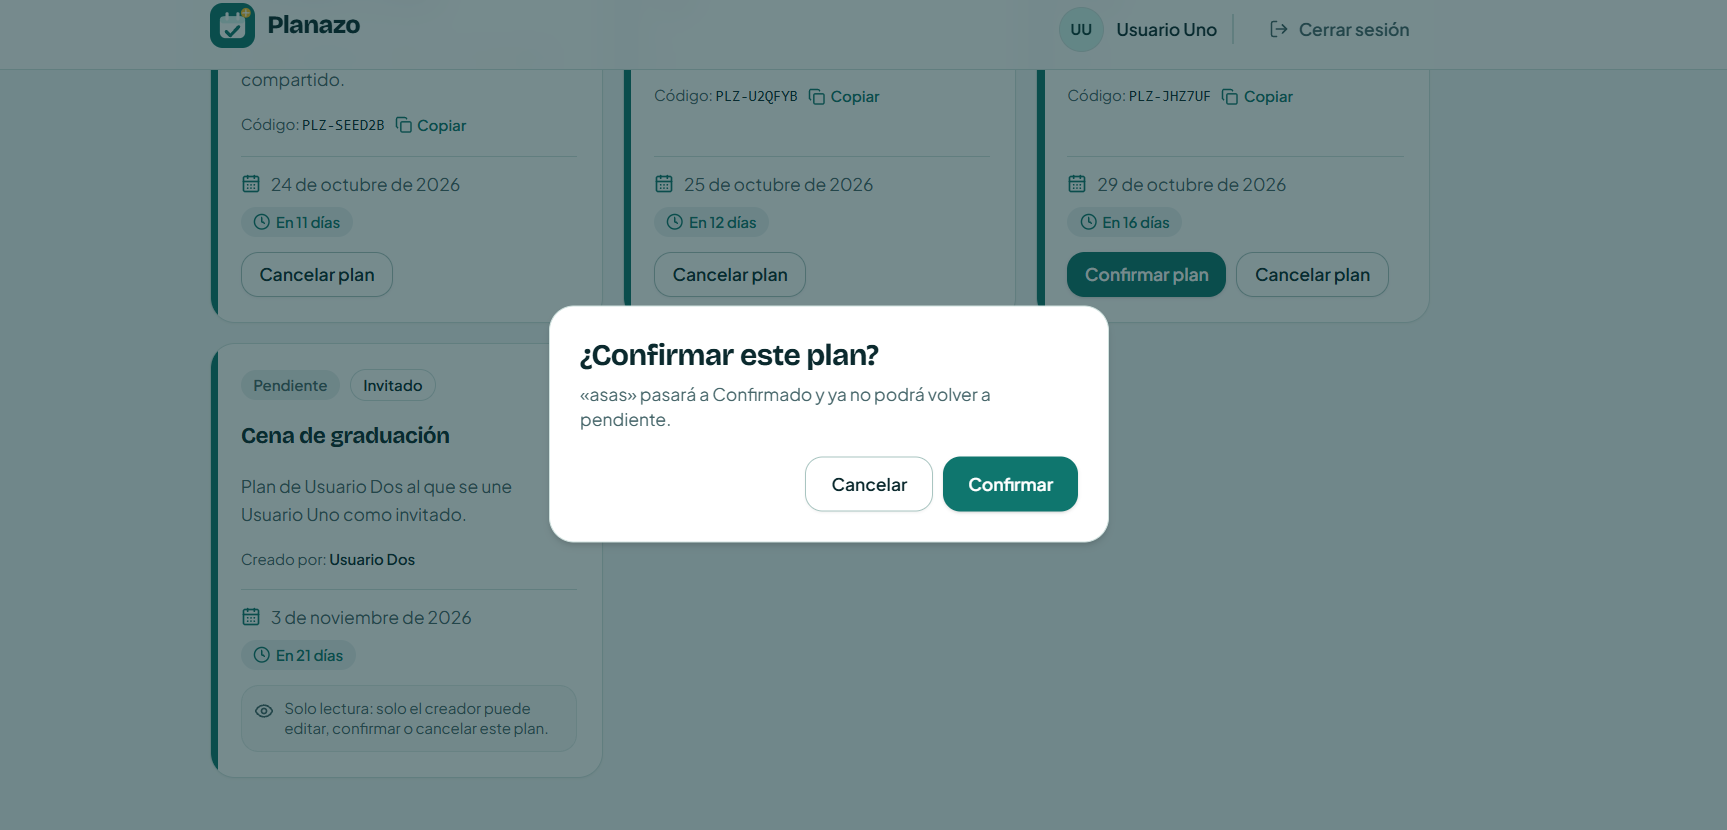
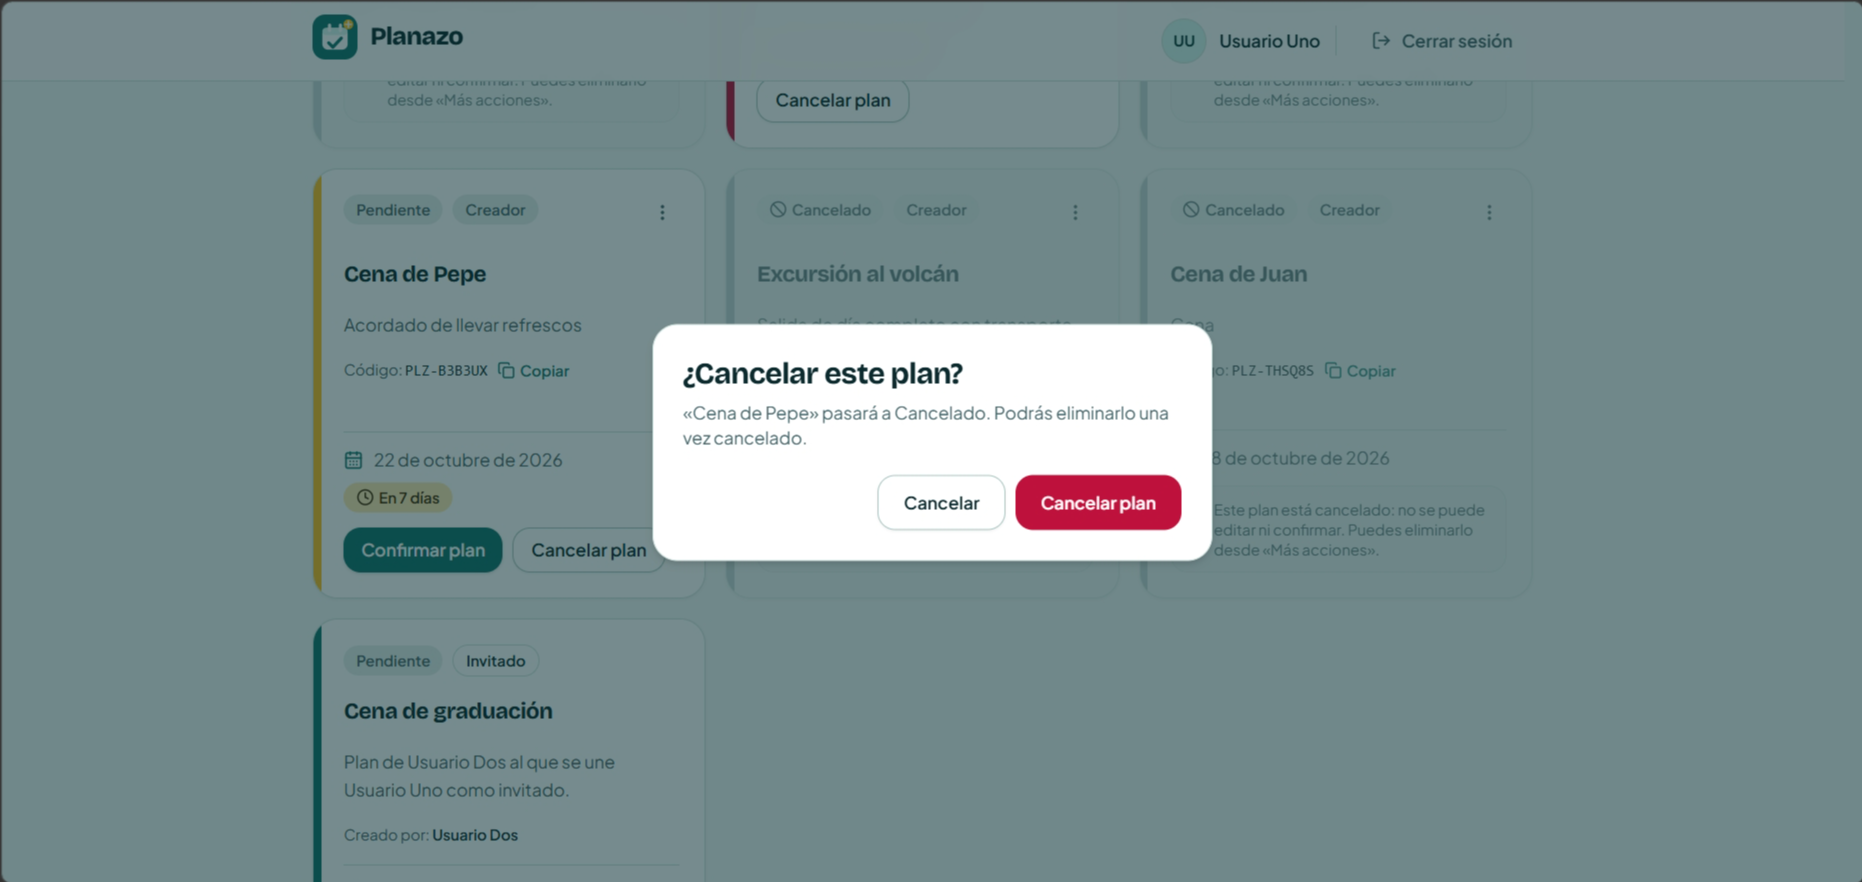
fix: ensure visible contextual feedback on plan cancellation (Closes #17, Refs #16)
Anchor the success notice to the viewport as a floating toast, add a unit test for the cancel flow, document H1 as corrected with before/after evidence, and sync and archive the plan-cancellation-visible-feedback change.

diff --git a/apps/frontend/src/pages/MyPlansPage.test.tsx b/apps/frontend/src/pages/MyPlansPage.test.tsx
@@ -30,6 +30,7 @@ const noSummary = { total: 0, overdue: 0, nextDueDate: null };
 const oneSummary = { total: 1, overdue: 0, nextDueDate: null };
 const listPlans = vi.mocked(api.listPlans);
 const createPlan = vi.mocked(api.createPlan);
+const cancelPlan = vi.mocked(api.cancelPlan);
 
 const saved: Plan = {
   id: "3f2a9c1e-7b4d-4e8a-9c21-5d6e7f8a9b0c",
@@ -491,4 +492,27 @@ describe("MyPlansPage", () => {
     await userEvent.click(screen.getByRole("button", { name: "Reintentar" }));
     await waitFor(() => expect(screen.queryByRole("alert")).not.toBeInTheDocument());
   });
+
+  it("renders floating viewport-anchored success toast after cancelling a plan", async () => {
+    listPlans.mockResolvedValue({ plans: [saved], summary: oneSummary });
+    cancelPlan.mockResolvedValue({ plan: { ...saved, estado: "cancelado" } });
+    renderPage();
+
+    await screen.findByRole("article");
+    await userEvent.click(screen.getByRole("button", { name: "Cancelar plan" }));
+
+    const dialog = screen.getByRole("alertdialog");
+    expect(dialog).toBeInTheDocument();
+    await userEvent.click(within(dialog).getByRole("button", { name: "Cancelar plan" }));
+
+    await waitFor(() => expect(cancelPlan).toHaveBeenCalledWith(saved.id));
+
+    const noticeText = await screen.findByText("Plan cancelado correctamente.");
+    expect(noticeText).toBeInTheDocument();
+
+    const toastContainer = noticeText.closest("div.fixed");
+    expect(toastContainer).not.toBeNull();
+    expect(toastContainer).toHaveClass("fixed", "bottom-5", "right-5", "z-50");
+  });
 });
+

diff --git a/apps/frontend/src/pages/MyPlansPage.tsx b/apps/frontend/src/pages/MyPlansPage.tsx
@@ -173,7 +173,9 @@ export default function MyPlansPage() {
       </header>
 
       {notice ? (
-        <SuccessNotice onClose={() => setNotice(null)}>{notice}</SuccessNotice>
+        <div className="fixed bottom-5 right-5 z-50 max-w-[calc(100vw-2.5rem)] sm:max-w-md shadow-lg animate-in fade-in slide-in-from-bottom-2 duration-200">
+          <SuccessNotice onClose={() => setNotice(null)}>{notice}</SuccessNotice>
+        </div>
       ) : null}
       <ErrorAlert message={loadError || actionError} />
       {loadError ? (

diff --git a/apps/frontend/src/components/domain/Notices.tsx b/apps/frontend/src/components/domain/Notices.tsx
@@ -37,7 +37,7 @@ export function SuccessNotice({
   if (!visible) return null;
 
   return (
-    <Alert role="status" variant="success" className="pr-10">
+    <Alert role="status" variant="success" className="pr-10 bg-card shadow-lg">
       <CircleCheck aria-hidden="true" />
       <div className="min-w-0">{children}</div>
       <button

diff --git a/docs/evaluacion-heuristica.md b/docs/evaluacion-heuristica.md
@@ -13,7 +13,7 @@ Este documento registra la evaluación de usabilidad centrada en la funcionalida
 
 | Observación | Heurística | Severidad (0-4) | Mejora | Comprobación |
 | :--- | :--- | :--- | :--- | :--- |
-| **Al cancelar no aparece confirmación cerca de la acción:** Tras scrollear en la lista para encontrar el plan y confirmarlo en el modal, el aviso de éxito se renderiza al tope de la página (`MyPlansPage.tsx`), fuera del viewport. | **H1: Visibilidad del estado del sistema** ❌ *(Falla · Sub-issue #17)* | **3 — Mayor** | Mostrar notificación flotante contextual (toast accesible sin librerías externas) anclada al viewport que confirme el estado «Cancelado». | Otra persona filtra por pendientes, scrollea, cancela un plan y explica qué ocurrió sin recibir ayuda externa. |
+| **Al cancelar no aparece confirmación cerca de la acción:** Tras scrollear en la lista para encontrar el plan y confirmarlo en el modal, el aviso de éxito se renderizaba fuera del viewport. Corregido con toast contextual flotante anclado en pantalla. | **H1: Visibilidad del estado del sistema** 🟢 *(Corregida · Sub-issue #17)* | **0 — Corregida (antes 3)** | Notificación flotante accesible (`fixed bottom-5 right-5 z-50 shadow-lg`) anclada en viewport que confirma el estado «Cancelado» en cualquier posición de scroll. | Verificado con tests unitarios en `MyPlansPage.test.tsx` y captura de pantalla `H1-despues.png` con la lista scrolleada. |
 | **Traducción adecuada a lenguaje cotidiano:** Las fechas de los planes a encontrar se expresan en lenguaje relativo coloquial (*"Vence en 3 días"*, *"Vence hoy"*), y las acciones usan términos comunes (*"Cancelar plan"*, *"Pasará a Cancelado"*). | **H2: Concordancia con el mundo real** ✅ *(Cumple en código)* | **0 — Sin problema** | Mantener vocabulario claro de reuniones y plazos sin requerir interpretación de marcas de tiempo ISO ni códigos de backend. | Un usuario lee la tarjeta encontrada y comprende de inmediato cuándo vence y en qué estado está sin consultar calendarios externos. |
 | **Callejón sin salida para el invitado:** Si un usuario invitado busca y encuentra un plan al que se unió pero al que ya no puede asistir, la tarjeta solo muestra un cartel de solo lectura sin opción de salida. | **H3: Control y libertad del usuario** ❌ *(Falla · Sub-issue #18)* | **3 — Mayor** | Habilitar la opción «Abandonar plan» en el menú (⋮) con diálogo de confirmación para que el invitado pueda retirarse de la reunión. | Un usuario con rol invitado busca su plan, abre el menú de la tarjeta y puede retirarse de forma autónoma. |
 | **Uniformidad visual y funcional en botones y modales:** El botón «Cancelar plan» usa siempre la variante secundaria (`outline`) según DESIGN.md para no competir con el primario, y el menú (⋮) se ubica arriba a la derecha. | **H4: Consistencia y estándares** ✅ *(Cumple en código)* | **0 — Sin problema** | Respetar las variantes del sistema de diseño (`tokens.css`, `Button.tsx`, `ConfirmDialog.tsx`) de forma idéntica en todas las tarjetas de la lista. | El usuario escanea la grilla de planes encontrados e identifica de inmediato qué botón cancela y cuál confirma sin dudar. |
@@ -40,18 +40,23 @@ Este documento registra la evaluación de usabilidad centrada en la funcionalida
 
 ### H1: Visibilidad del estado del sistema
 
-* **Estado:** ❌ **Falla (A resolver en Sub-issue #17)**
-* **Severidad:** **3 — Mayor**
+* **Estado:** 🟢 **Corregida (Resuelto en Sub-issue #17)**
+* **Severidad:** **0 — Corregida (original: 3 — Mayor)**
 * **Pantalla y flujo:** Catálogo de planes en `/mis-planes`. Paso: el usuario busca un plan en la lista, hace scroll hacia abajo, pulsa «Cancelar plan» y confirma en el diálogo modal.
-* **Problema en código actual (Antes):** En [MyPlansPage.tsx:L175-L177](file:///d:/Proyectos/Proyectos-Moises/Proyecto-2-IHC/apps/frontend/src/pages/MyPlansPage.tsx#L175-L177), el componente `SuccessNotice` está insertado estáticamente arriba en el layout. Al confirmar la cancelación con scroll, el modal se cierra pero el mensaje queda oculto arriba fuera del viewport.
-* **Solución propuesta (Después):** Modificar el contenedor de `SuccessNotice` en `MyPlansPage.tsx` para que se posicione de forma flotante en pantalla (`fixed bottom-5 right-5 z-50 shadow-md`) mediante clases nativas de Tailwind, sin librerías externas.
-* **Referencia al código:** [MyPlansPage.tsx:L175-L177](file:///d:/Proyectos/Proyectos-Moises/Proyecto-2-IHC/apps/frontend/src/pages/MyPlansPage.tsx#L175-L177) y [Notices.tsx](file:///d:/Proyectos/Proyectos-Moises/Proyecto-2-IHC/apps/frontend/src/components/domain/Notices.tsx).
+* **Problema en código previo (Antes):** En [MyPlansPage.tsx](file:///d:/Proyectos/Proyectos-Moises/Proyecto-2-IHC/apps/frontend/src/pages/MyPlansPage.tsx), el componente `SuccessNotice` estaba insertado estáticamente arriba en el layout. Al confirmar la cancelación con scroll, el modal se cerraba pero el mensaje quedaba oculto arriba fuera del viewport.
+* **Solución implementada (Después):** Se encapsuló `SuccessNotice` en [MyPlansPage.tsx:L175-L179](file:///d:/Proyectos/Proyectos-Moises/Proyecto-2-IHC/apps/frontend/src/pages/MyPlansPage.tsx#L175-L179) dentro de un contenedor flotante anclado al viewport (`fixed bottom-5 right-5 z-50 max-w-[calc(100vw-2.5rem)] sm:max-w-md shadow-lg animate-in fade-in slide-in-from-bottom-2 duration-200`) y se aseguró el fondo opaco `bg-card` en [Notices.tsx:L40](file:///d:/Proyectos/Proyectos-Moises/Proyecto-2-IHC/apps/frontend/src/components/domain/Notices.tsx#L40), garantizando visibilidad inmediata e inequívoca tras la cancelación sin importar la posición de scroll.
+* **Referencia al código:** [MyPlansPage.tsx:L175-L179](file:///d:/Proyectos/Proyectos-Moises/Proyecto-2-IHC/apps/frontend/src/pages/MyPlansPage.tsx#L175-L179) y [Notices.tsx:L40](file:///d:/Proyectos/Proyectos-Moises/Proyecto-2-IHC/apps/frontend/src/components/domain/Notices.tsx#L40).
 * **Evidencias gráficas:**
-  * *Antes (Aviso al tope de la página fuera del viewport con scroll):*  
-    ![H1 Antes Paso 1](evidencias/H1-P1.png)  
-    ![H1 Antes Paso 2](evidencias/H1-P2.png)
-  * *Después (Notificación toast en viewport tras el fix):*  
-    `docs/evidencias/H1-despues.png` *(se captura al aplicar el fix del sub-issue #17)*
+  * *Antes (Secuencia de falla: falta de feedback contextual con scroll):*  
+    * **Paso 1 (Modal de cancelación tras scroll):**  
+      ![H1 Paso 1 - Modal de cancelación tras scroll](evidencias/H1-P1.png)  
+    * **Paso 2 (Ausencia de feedback en viewport tras confirmar):**  
+      ![H1 Paso 2 - Vista sin anuncio visible tras confirmar](evidencias/H1-P2.png)  
+    * **Paso 3 (Scroll forzado hasta el tope para ver el mensaje):**  
+      ![H1 Paso 3 - Scroll forzado hasta arriba para ver el aviso](evidencias/H1-P3.png)
+  * *Después (Notificación toast flotante en viewport tras el fix):*  
+    * **Confirmación flotante visible en viewport con scroll activo:**  
+      ![H1 Después - Notificación toast flotante en viewport](evidencias/H1-despues.png)
 
 ---
 

diff --git a/openspec/changes/archive/2026-10-15-plan-cancellation-visible-feedback/design.md b/openspec/changes/archive/2026-10-15-plan-cancellation-visible-feedback/design.md
@@ -1,0 +1,39 @@
+# Design: Feedback visible y contextual al cancelar planes (H1 / Sub-issue #17)
+
+## Context
+
+Actualmente en `MyPlansPage.tsx:L175-L177`, `SuccessNotice` se monta en el flujo estático del DOM, debajo de `<header>` y antes de las tarjetas de planes. Cuando el usuario tiene múltiples planes y se desplaza verticalmente para encontrar el plan deseado y cancelarlo, el modal se cierra y el aviso se renderiza en la parte superior del documento, quedando completamente fuera del viewport visible.
+
+## Goals / Non-Goals
+
+**Goals:**
+- Anclar la notificación de éxito al viewport visible mediante posicionamiento flotante (`fixed bottom-5 right-5 z-50 max-w-md shadow-lg`), asegurando visibilidad inmediata sin importar el scroll.
+- Mantener la accesibilidad (`role="status"`, botón de cierre con `aria-label`, auto-cierre tras 5 segundos).
+- Cero librerías externas adicionales, respetando estrictamente `AGENTS.md` y `DESIGN.md`.
+- Cobertura completa de pruebas unitarias en `MyPlansPage.test.tsx` verificando la presencia y contenido del feedback tras la cancelación.
+
+**Non-Goals:**
+- No implementar un gestor complejo de múltiples toasts ni instalar librerías como `sonner` o `react-hot-toast`.
+- No modificar el comportamiento de `ErrorAlert` (los errores mantienen su contexto actual).
+
+## Decisions
+
+### Decisión 1: Contenedor flotante en `MyPlansPage.tsx`
+- **Elección:** Envolver `SuccessNotice` en un contenedor fijo:
+  ```tsx
+  {notice ? (
+    <div className="fixed bottom-5 right-5 z-50 max-w-[calc(100vw-2.5rem)] sm:max-w-md shadow-lg animate-in fade-in slide-in-from-bottom-2 duration-200">
+      <SuccessNotice onClose={() => setNotice(null)}>{notice}</SuccessNotice>
+    </div>
+  ) : null}
+  ```
+- **Alternativa descartada:** Hacer que `SuccessNotice` siempre tenga `position: fixed` internamente. Descartado porque limitaría la reutilización de `SuccessNotice` como banner inline en otros contextos.
+
+### Decisión 2: Tailwind nativo y Tokens de Diseño
+- **Elección:** Utilizar clases nativas de Tailwind existentes (`fixed`, `bottom-5`, `right-5`, `z-50`, `shadow-lg`).
+- **Alternativa descartada:** Instalar librerías de notificaciones externas. Prohibido por las directivas del proyecto.
+
+## Risks / Trade-offs
+
+- **[Riesgo: Superposición con botones inferiores en pantallas móviles estrechas]**  
+  → **Mitigación:** Aplicar `max-w-[calc(100vw-2.5rem)]`, sombra de elevación (`shadow-lg`) para contraste de capas, y conservar el botón de cierre táctil `X` con tamaño objetivo accesible.

diff --git a/openspec/changes/archive/2026-10-15-plan-cancellation-visible-feedback/proposal.md b/openspec/changes/archive/2026-10-15-plan-cancellation-visible-feedback/proposal.md
@@ -1,0 +1,25 @@
+# Proposal: Feedback visible y contextual al cancelar planes (H1 / Sub-issue #17)
+
+## Why
+
+Al encontrar y cancelar un plan en `/mis-planes` tras hacer scroll vertical en la lista, el diálogo de confirmación se cierra correctamente pero el aviso de éxito (`SuccessNotice`) se renderiza al principio de la página (`MyPlansPage.tsx:L175-L177`), fuera del viewport visible. Esta desconexión espacial viola la heurística H1 de Nielsen (Visibilidad del estado del sistema, severidad 3 - Mayor) al dejar al usuario con incertidumbre sobre si la acción se ejecutó con éxito, forzándolo a hacer scroll manual hacia arriba para enterarse.
+
+## What Changes
+
+- Modificar la renderización del aviso de éxito (`notice`) en `MyPlansPage.tsx` para presentarlo dentro de un contenedor toast flotante anclado en el viewport (`fixed bottom-5 right-5 z-50 max-w-md shadow-lg animate-in fade-in slide-in-from-bottom-2`), utilizando clases utilitarias de Tailwind sin dependencias externas.
+- Garantizar que el mensaje de confirmación (`role="status"`) sea visible e inmediatamente perceptible en cualquier posición de scroll.
+- Añadir pruebas unitarias en `MyPlansPage.test.tsx` que verifiquen la presencia, legibilidad y posicionamiento en viewport del aviso tras la cancelación de un plan.
+
+## Capabilities
+
+### New Capabilities
+<!-- None -->
+
+### Modified Capabilities
+- `plans`: Clarificar en los requerimientos de interacción y cancelación de planes que la notificación de éxito debe ser visible y anclada al viewport tras la mutación, independientemente del desplazamiento (scroll).
+
+## Impact
+
+- `apps/frontend/src/pages/MyPlansPage.tsx`: Actualización del layout del contenedor de `SuccessNotice`.
+- `apps/frontend/src/pages/MyPlansPage.test.tsx`: Nuevos casos de prueba para el flujo de cancelación y visibilidad del toast.
+- Cierre del sub-issue #17 (`Refs #16`).

diff --git a/openspec/specs/plans/spec.md b/openspec/specs/plans/spec.md
@@ -476,11 +476,16 @@ After confirm, cancel, delete, join, or update succeeds, the list and summary SH
 - THEN it is not shown but `summary.total` increases
 
 ### Requirement: PLN-14 Cancel requires confirmation and reports failure
-Cancelling SHALL be offered only to the creator on `pendiente` or `confirmado` plans, through a confirmation dialog that names the plan. The state SHALL change only after acceptance. If the request fails, the dialog SHALL stay open, show the error next to the action, and keep the plan unchanged. Accept SHALL be disabled while pending.
+Cancelling SHALL be offered only to the creator on `pendiente` or `confirmado` plans, through a confirmation dialog that names the plan. The state SHALL change only after acceptance. Upon successful cancellation, the interface SHALL display an immediate visible confirmation notice anchored to the viewport (as a floating toast notification), ensuring it is perceptible regardless of page scroll position. If the request fails, the dialog SHALL stay open, show the error next to the action, and keep the plan unchanged. Accept SHALL be disabled while pending.
 
 #### Scenario: Accept
 - WHEN the owner accepts the dialog
 - THEN the plan shows "Cancelado" without a page reload
+- AND a success notice appears in the viewport anchored to the screen
+
+#### Scenario: Accept with scrolled viewport
+- WHEN the owner accepts the cancellation dialog while scrolled down in the plans list
+- THEN the success notice is immediately visible in the active viewport without requiring the user to scroll to the top of the page
 
 #### Scenario: Dismiss
 - WHEN the owner dismisses the dialog

diff --git a/openspec/changes/archive/2026-10-15-plan-cancellation-visible-feedback/specs/plans/spec.md b/openspec/changes/archive/2026-10-15-plan-cancellation-visible-feedback/specs/plans/spec.md
@@ -1,0 +1,21 @@
+## MODIFIED Requirements
+
+### Requirement: PLN-14 Cancel requires confirmation and reports failure
+Cancelling SHALL be offered only to the creator on `pendiente` or `confirmado` plans, through a confirmation dialog that names the plan. The state SHALL change only after acceptance. Upon successful cancellation, the interface SHALL display an immediate visible confirmation notice anchored to the viewport (as a floating toast notification), ensuring it is perceptible regardless of page scroll position. If the request fails, the dialog SHALL stay open, show the error next to the action, and keep the plan unchanged. Accept SHALL be disabled while pending.
+
+#### Scenario: Accept
+- **WHEN** the owner accepts the dialog
+- **THEN** the plan shows "Cancelado" without a page reload
+- **AND** a success notice appears in the viewport anchored to the screen
+
+#### Scenario: Accept with scrolled viewport
+- **WHEN** the owner accepts the cancellation dialog while scrolled down in the plans list
+- **THEN** the success notice is immediately visible in the active viewport without requiring the user to scroll to the top of the page
+
+#### Scenario: Dismiss
+- **WHEN** the owner dismisses the dialog
+- **THEN** no request is sent and the state is unchanged
+
+#### Scenario: Failure
+- **WHEN** the cancel request fails
+- **THEN** the dialog remains open with the error and the plan is unchanged

diff --git a/openspec/changes/archive/2026-10-15-plan-cancellation-visible-feedback/tasks.md b/openspec/changes/archive/2026-10-15-plan-cancellation-visible-feedback/tasks.md
@@ -1,0 +1,13 @@
+## 1. UI Implementation
+
+- [x] 1.1 Envolver `SuccessNotice` en un contenedor flotante accesible anclado en el viewport (`fixed bottom-5 right-5 z-50 max-w-[calc(100vw-2.5rem)] sm:max-w-md shadow-lg animate-in fade-in slide-in-from-bottom-2 duration-200`) en `apps/frontend/src/pages/MyPlansPage.tsx`.
+
+## 2. Testing & Verification
+
+- [x] 2.1 Añadir tests unitarios en `apps/frontend/src/pages/MyPlansPage.test.tsx` que simulen el flujo de cancelación y confirmen la renderización del aviso accesible (`role="status"`) con las clases de anclaje al viewport.
+- [x] 2.2 Ejecutar la suite de pruebas unitarias con Vitest (`pnpm --filter frontend test MyPlansPage`) y verificar que todos los tests pasen exitosamente.
+
+## 3. Evidence & Heuristics Documentation
+
+- [x] 3.1 Capturar la evidencia gráfica del estado corregido en `docs/evidencias/H1-despues.png`.
+- [x] 3.2 Actualizar la fila de H1 en el resumen ejecutivo y en la sección detallada de `docs/evaluacion-heuristica.md` marcándola como «Corregida» con su captura correspondiente.
